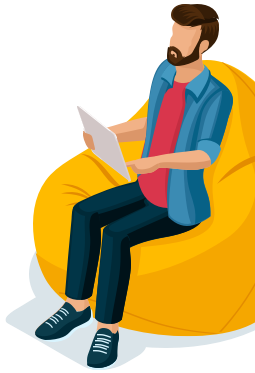
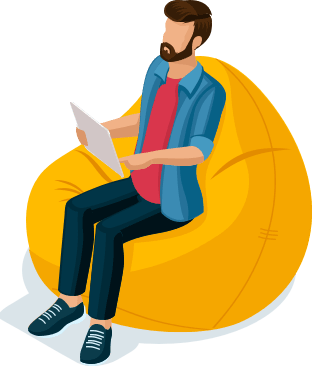
Update footer image

diff --git a/src/components/FooterSection/FooterSection.scss b/src/components/FooterSection/FooterSection.scss
@@ -33,34 +33,34 @@
       font-size: 18px;
     }
     .ImageCut1 {
-      width: 175px;
+      width: 16.6992%;
       top: 65px;
-      left: 18px;
+      left: 1.75781%;
       transform: translate3d(-60px, 0, 0);
     }
     .ImageCut2 {
-      width: 110px;
-      left: 162px;
-      bottom: 0;
+      width: 15.42968%;
+      left: 19.04296%;
+      bottom: 10px;
       transform: translate3d(80px, 0, 0);
     }
     .ImageCut3 {
-      width: 76px;
-      top: -36px;
-      right: 168px;
+      width: 7.03125%;
+      top: -8%;
+      right: 16.40625%;
       transform: translate3d(-20px, 0, 0);
     }
     .ImageCut4 {
-      width: 148px;
-      right: 146px;
-      bottom: 0;
+      width: 16.6015625%;
+      right: 14.45312%;
+      bottom: 0.58593%;
       transform: translate3d(60px, 0, 0);
     }
     .ImageCut5 {
-      width: 126px;
-      right: 0;
-      bottom: 104px;
-      transform: translate3d(20px, 0, 0);
+      width: 15.33203%;
+      right: 0.58593%;
+      top: 50%;
+      transform: translate3d(20px, -40%, 0);
     }
     .ImageCut6,
     .ImageCut7 {
@@ -70,6 +70,7 @@
       position: absolute;
       opacity: .3;
       transition: transform .5s ease-out, opacity .3s;
+      pointer-events: none;
     }
   }
 
@@ -78,10 +79,13 @@
     .Content .ImageCut2,
     .Content .ImageCut3,
     .Content .ImageCut4,
-    .Content .ImageCut5,
     .Content .ImageCut6,
     .Content .ImageCut7 {
       transform: translate3d(0, 0, 0);
+      opacity: 1;
+    }
+    .Content .ImageCut5 {
+      transform: translate3d(0, -40%, 0);
       opacity: 1;
     }
   }
